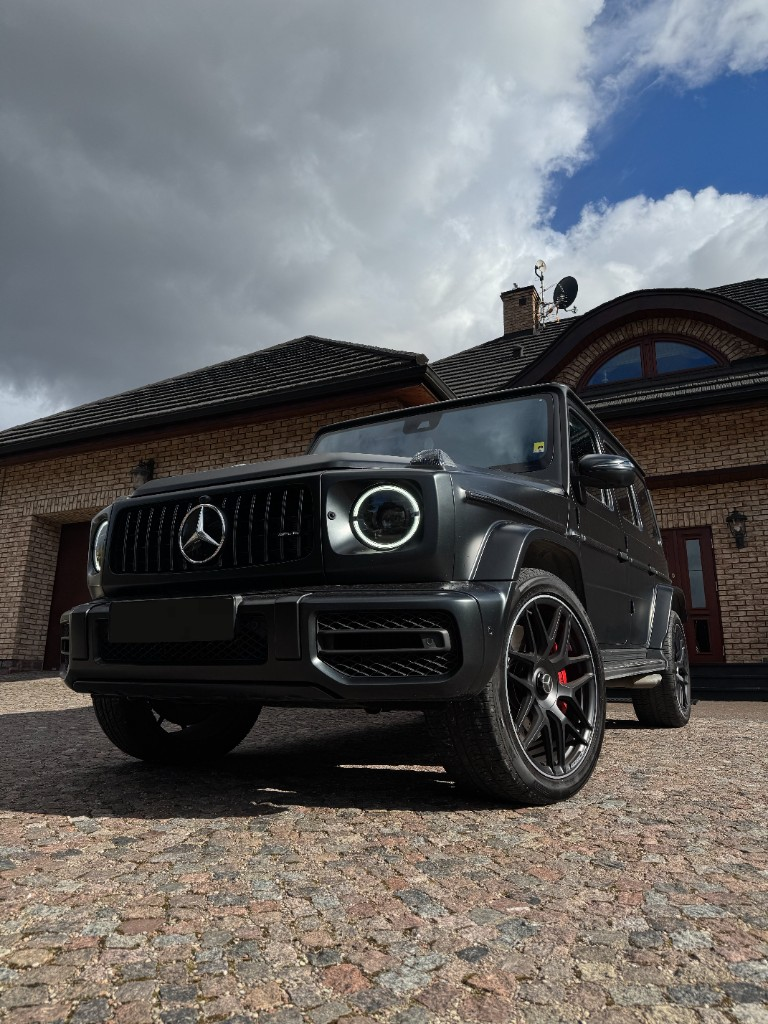
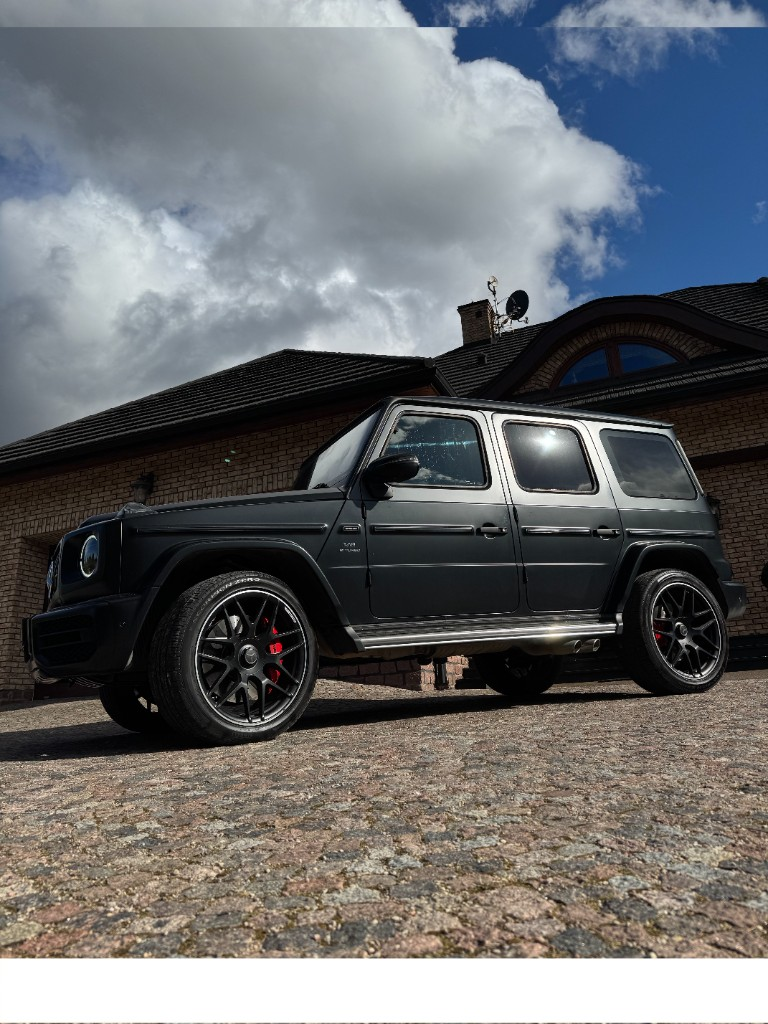
Update selected gallery photos and hero side image.
Apply numbered image replacements and use the new mirrored hero card photo.

Made-with: Cursor

diff --git a/src/components/Hero.tsx b/src/components/Hero.tsx
@@ -1,7 +1,7 @@
 import { ChevronDown, Check } from "lucide-react";
 import { VEHICLE_SPECS } from "../data";
 import heroImage from "../assets/gallery/hero-main.png";
-import heroSideImage from "../assets/gallery/gklasa-9.png";
+import heroSideImage from "../assets/gallery/hero-side.png";
 
 export default function Hero() {
   const scrollToKalkulator = () => {
